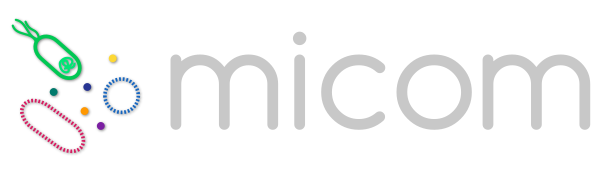
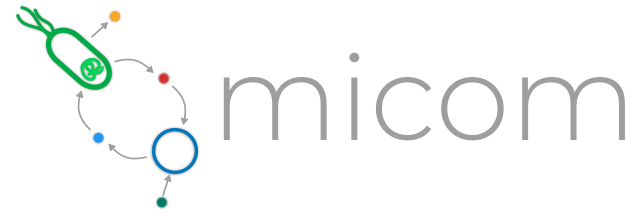
switch to less broken theme

diff --git a/README.rst b/README.rst
@@ -1,7 +1,10 @@
-.. image:: https://github.com/micom-dev/micom/raw/master/docs/source/_static/micom.png
+.. image:: https://github.com/micom-dev/micom/raw/master/docs/source/micom.png
     :width: 640 px
 
 |actions status| |coverage| |pypi status|
+
+Welcome!
+--------
 
 `MICOM` is a Python package for metabolic modeling of microbial
 communities currently developed in the
